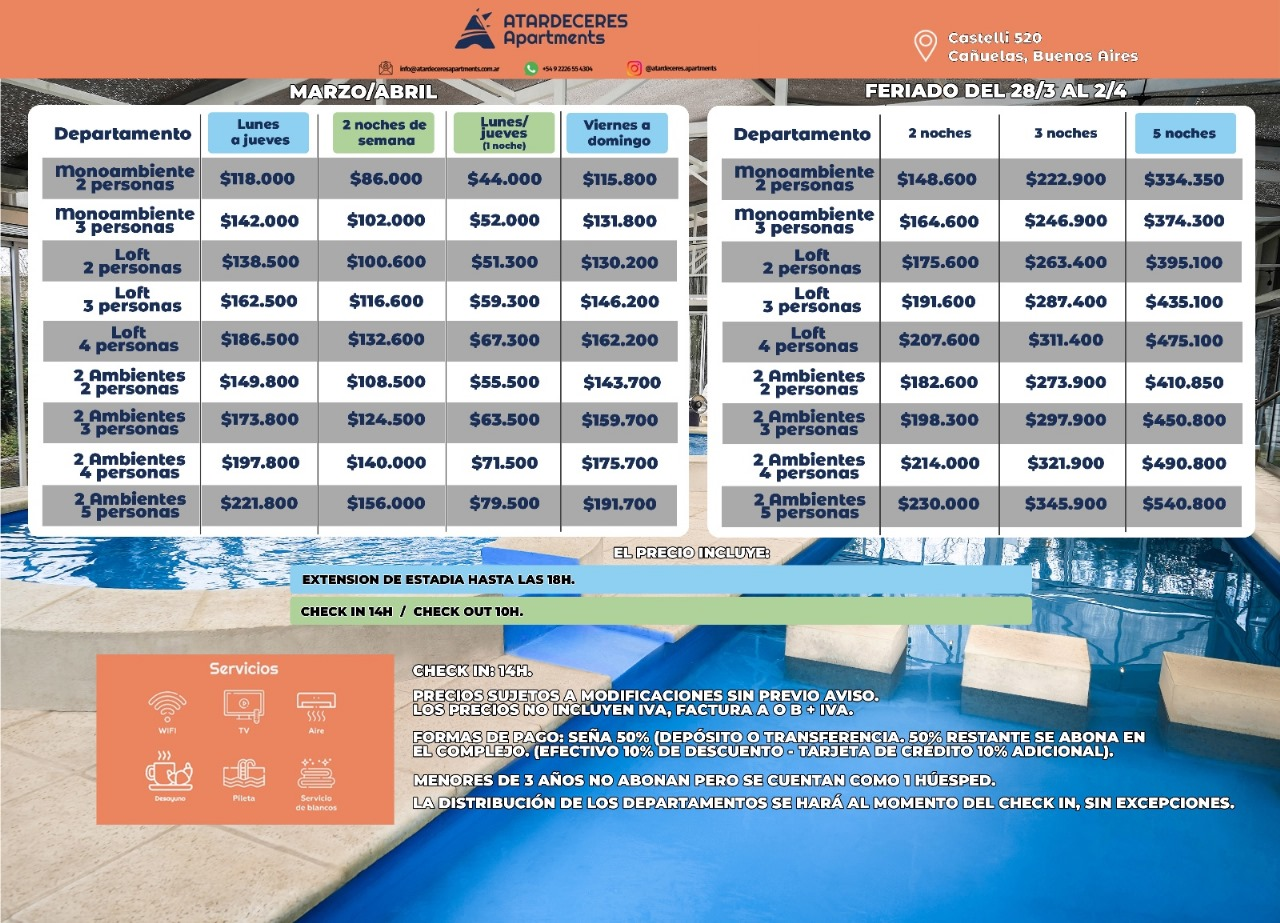
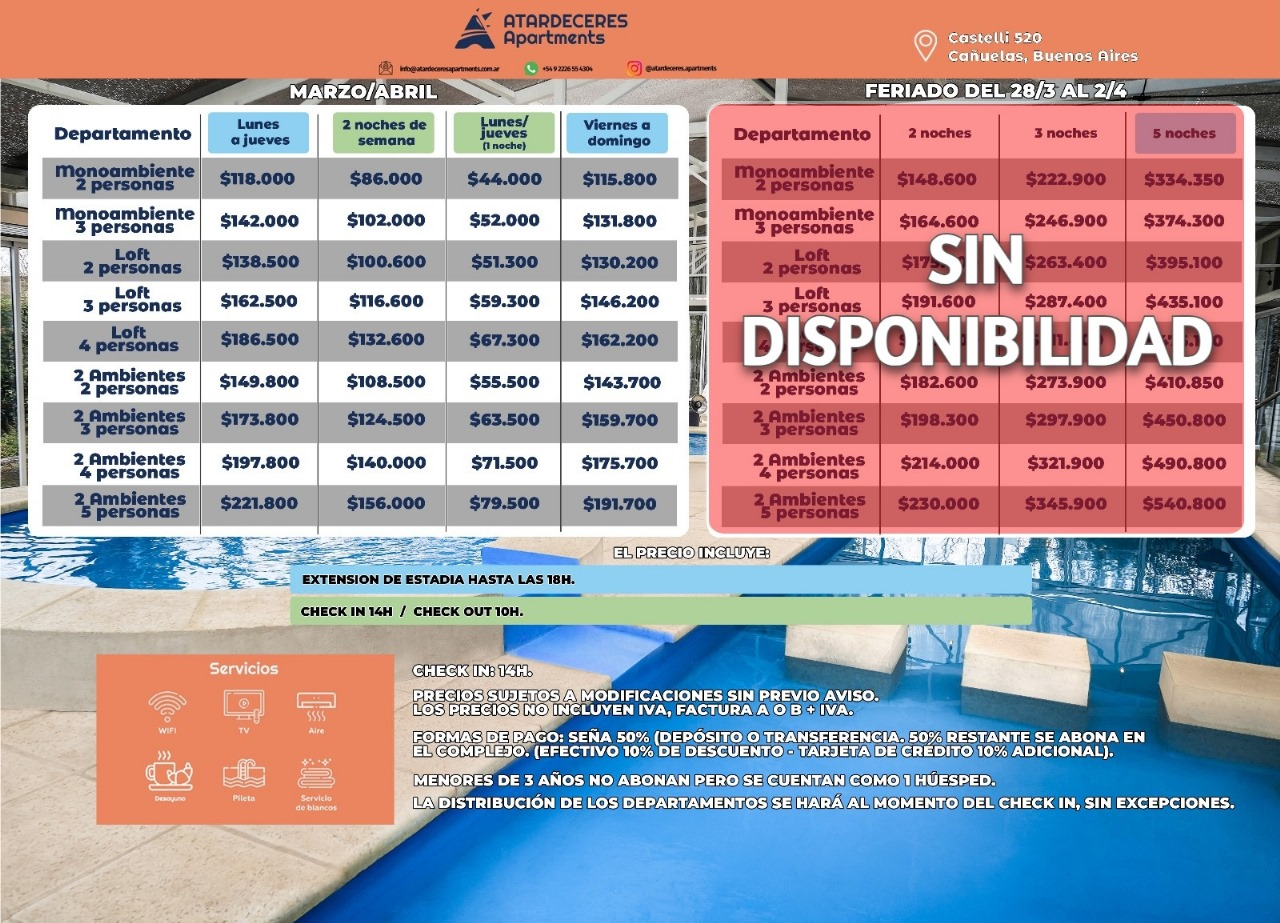
Again

Changed region(s): [[0.5312, 0.091, 0.9688, 0.5764]]

diff --git a/base-baileys-memory/flows/flowTarifas.js b/base-baileys-memory/flows/flowTarifas.js
@@ -1,9 +1,12 @@
 import pkg from '@bot-whatsapp/bot';
-import {CANUELAS_PATH_NO_AVAILABILITY, SAN_MIGUEL_PATH_NO_AVAILABILITY} from "../constants/images_path.js";
+import {
+    CANUELAS_PATH_AVAILABILITY,
+    SAN_MIGUEL_PATH_AVAILABILITY,
+} from "../constants/images_path.js";
 const { addKeyword} = pkg;
 
 export const flowTarifas = addKeyword(['1'])
     .addAnswer('Estamos trayendo la información. Esto puede tardar unos segundos.', null, null)
-    .addAnswer(' ', { media: SAN_MIGUEL_PATH_NO_AVAILABILITY})
-    .addAnswer(' ', { media: CANUELAS_PATH_NO_AVAILABILITY})
+    .addAnswer(' ', { media: CANUELAS_PATH_AVAILABILITY})
+    .addAnswer(' ', { media: SAN_MIGUEL_PATH_AVAILABILITY})
     .addAnswer("Nos estaremos comunicando personalmente en la brevedad para que puedas confirmar una reserva")

diff --git a/base-baileys-memory/constants/images_path.js b/base-baileys-memory/constants/images_path.js
@@ -1,4 +1,2 @@
-export const CANUELAS_PATH_NO_AVAILABILITY = 'https://github.com/sbocaccio/whatsapp-bot-hotel/blob/daniel-bot/base-baileys-memory/images/tarifas_canuelas_no_dispo.jpeg?raw=true'
 export const CANUELAS_PATH_AVAILABILITY = 'https://github.com/sbocaccio/whatsapp-bot-hotel/blob/daniel-bot/base-baileys-memory/images/tarifas_canuelas.jpeg?raw=true'
-export const SAN_MIGUEL_PATH_NO_AVAILABILITY = 'https://github.com/sbocaccio/whatsapp-bot-hotel/blob/daniel-bot/base-baileys-memory/images/tarifas_san_miguel_no_dispo.jpeg?raw=true'
 export const SAN_MIGUEL_PATH_AVAILABILITY = 'https://github.com/sbocaccio/whatsapp-bot-hotel/blob/daniel-bot/base-baileys-memory/images/tarifas_san_miguel_no_dispo.jpeg?raw=true'
